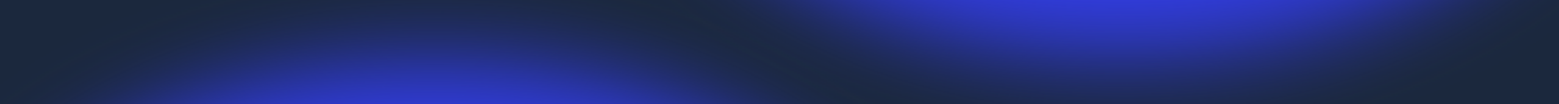
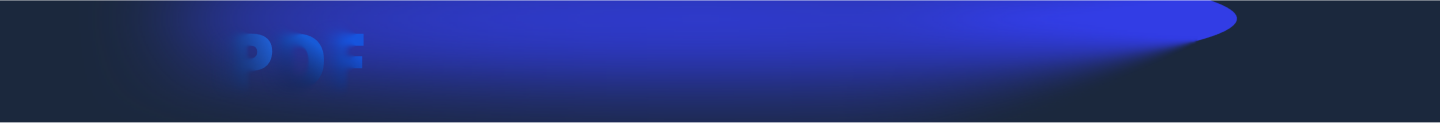
advent-announce: ONLYOFFICE Docs 9.1 released

diff --git a/src/components/OOAdventAnnounce/OOAdventAnnounce.scss b/src/components/OOAdventAnnounce/OOAdventAnnounce.scss
@@ -63,24 +63,13 @@
   text-decoration: none;
   background-color: #1b283d;
   background-image: url("./images/docs_9.1.png");
-  background-size: auto 104px;
+  background-size: auto 144px;
   background-repeat: no-repeat;
-  background-position-x: calc(50% - 251px);
+  background-position: calc(50% + 65px) 50%;
 
   &.ar {
     direction: initial;
     unicode-bidi: initial;
-  }
-
-  &.de,
-  &.fr {
-    .oo-advent-announce-text {
-      max-width: 900px;
-
-      @media screen and (max-width: 375px) {
-        font-size: 13px;
-      }
-    }
   }
 
   &.es {
@@ -105,6 +94,12 @@
     }
   }
 
+  &.de .oo-advent-announce-text {
+    @media screen and (max-width: 375px) {
+      font-size: 13px;
+    }
+  }
+
   &.pt,
   &.pt-br {
     .oo-advent-announce-text {
@@ -122,12 +117,6 @@
     }
   }
 
-  &.sr {
-    .oo-advent-announce-text {
-      max-width: 788px;
-    }
-  }
-
   &.zh,
   &.zh-hans {
     .oo-advent-announce-text {
@@ -141,9 +130,39 @@
 
   @media screen and (max-width: 1024px) {
     height: 48px;
-    background-image: url("./images/docs_9.1.png");
-    background-size: auto 60px;
-    background-position: calc(50% + 224px) bottom;
+    background-size: auto 134px;
+    background-position: calc(50% + 367px) -42px;
+
+    &.de {
+      background-position-x: calc(50% + 335px);
+    }
+
+    &.ja,
+    &.fr,
+    &.pt,
+    &.pt-br,
+    &.ru {
+      background-position-x: calc(50% + 345px);
+    }
+
+    &.sr,
+    &.es {
+      background-position-x: calc(50% + 350px);
+    }
+
+    &.zh,
+    &.zh-hans {
+      background-position-x: calc(50% + 363px);
+    }
+  }
+
+  @media screen and (max-width: 320px) {
+    background-image: url("./images/mobile_bg.png");
+    background-size: auto 49px;
+    background-position: 50% 50%;
+    &[class] {
+      background-position-x: 50%;
+    }
   }
 }
 
@@ -156,7 +175,7 @@
   font-size: 14px;
   line-height: 19px;
   text-align: center;
-  max-width: 872px;
+  max-width: 846px;
   height: 100%;
   color: #ffffff;
   text-decoration: none;
@@ -172,17 +191,13 @@
 
   &:before {
     margin-right: 12px;
-    width: 64px;
-    min-width: 60px;
-    height: 62px;
+    width: 50px;
+    min-width: 50px;
+    height: 44px;
     background-image: url("./images/docs_icon_9.1.svg");
-    background-size: 64px 62px;
+    background-size: 47px 44px;
 
     @media screen and (max-width: 1024px) {
-      margin-right: 8px;
-      width: 56px;
-      min-width: 56px;
-      height: 54px;
       background-size: contain;
     }
   }
